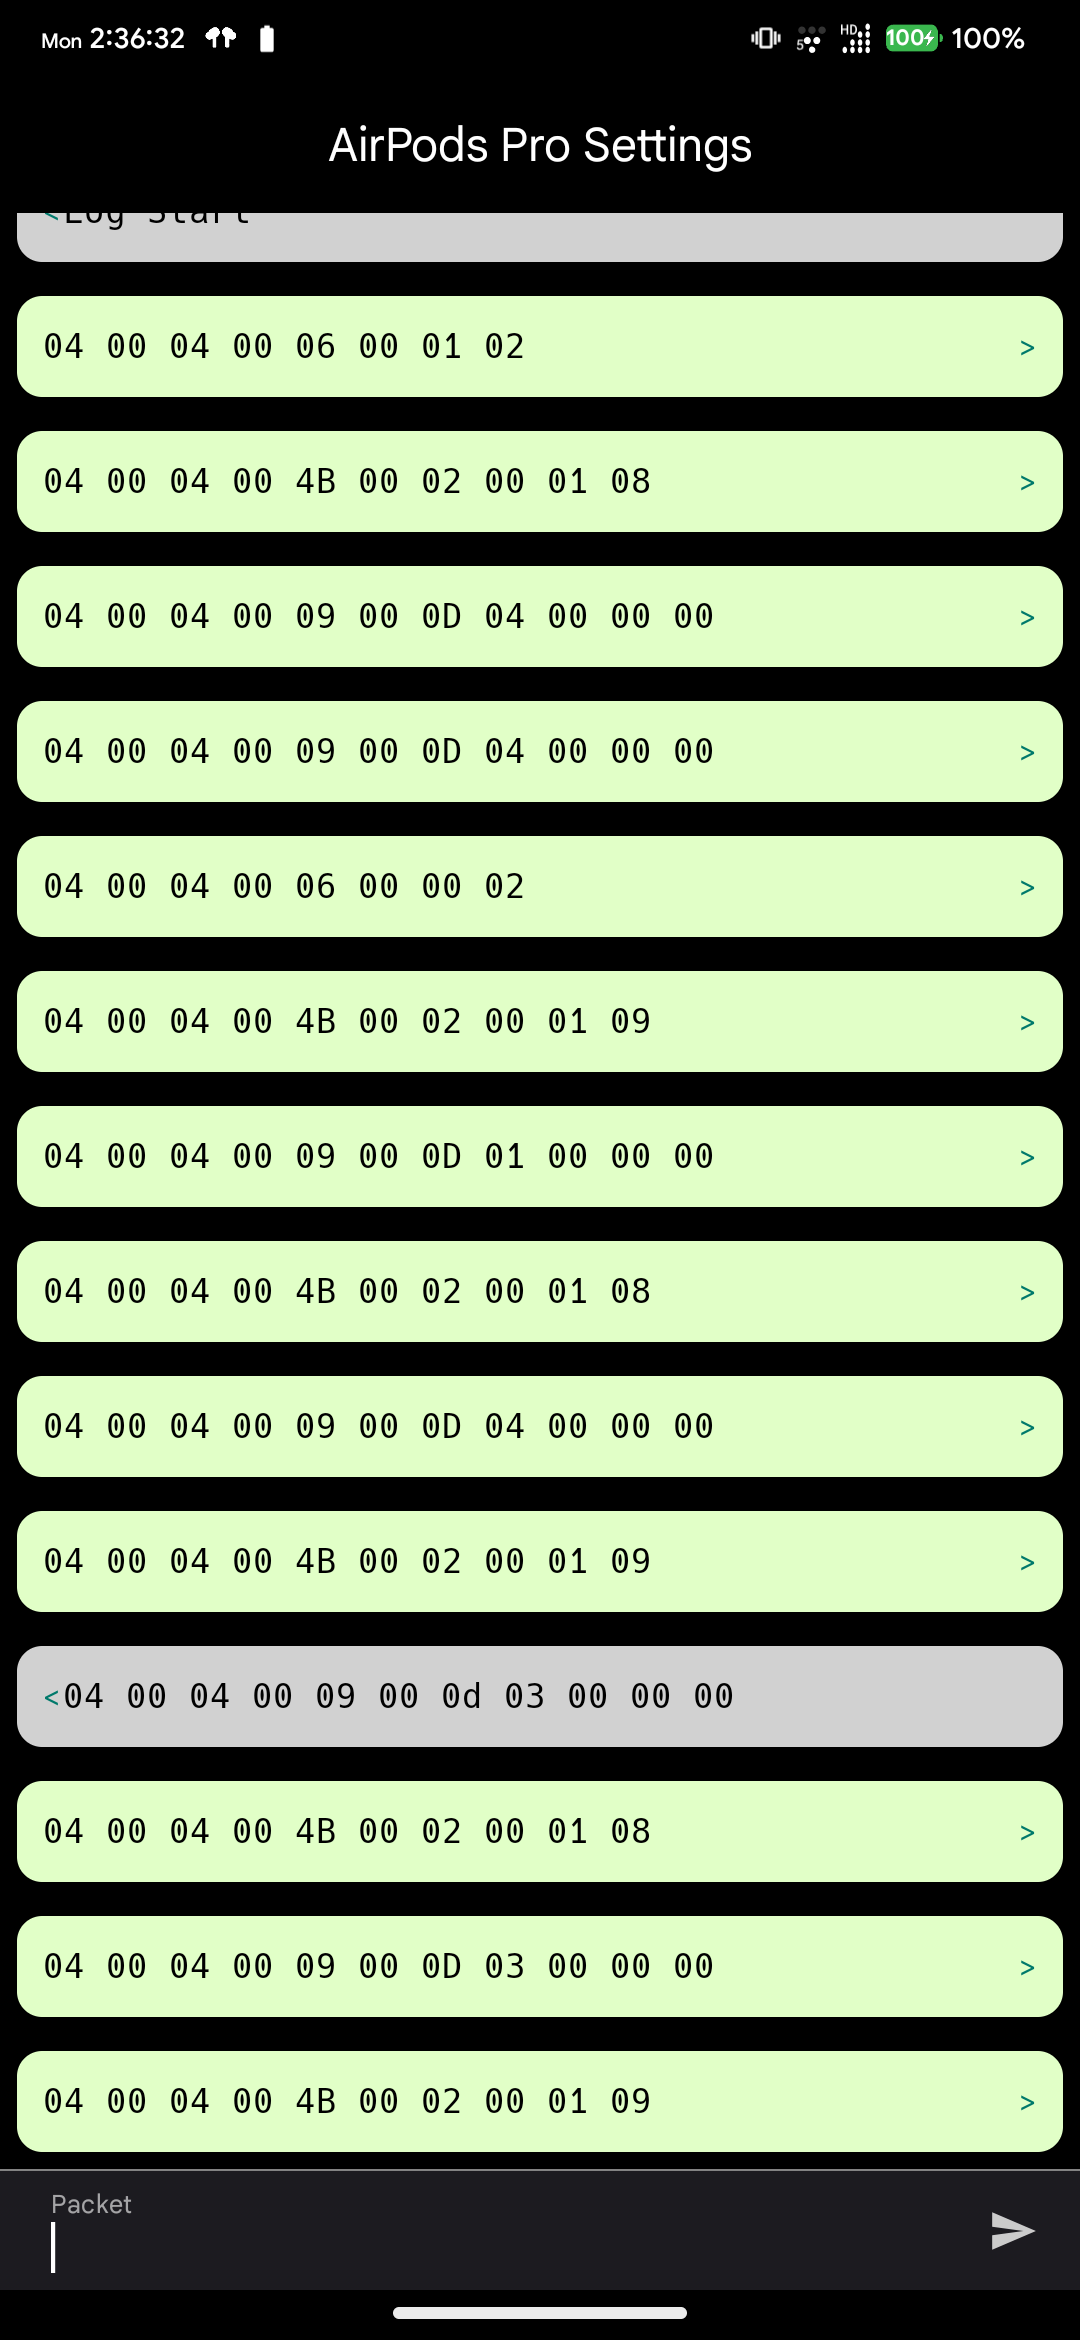
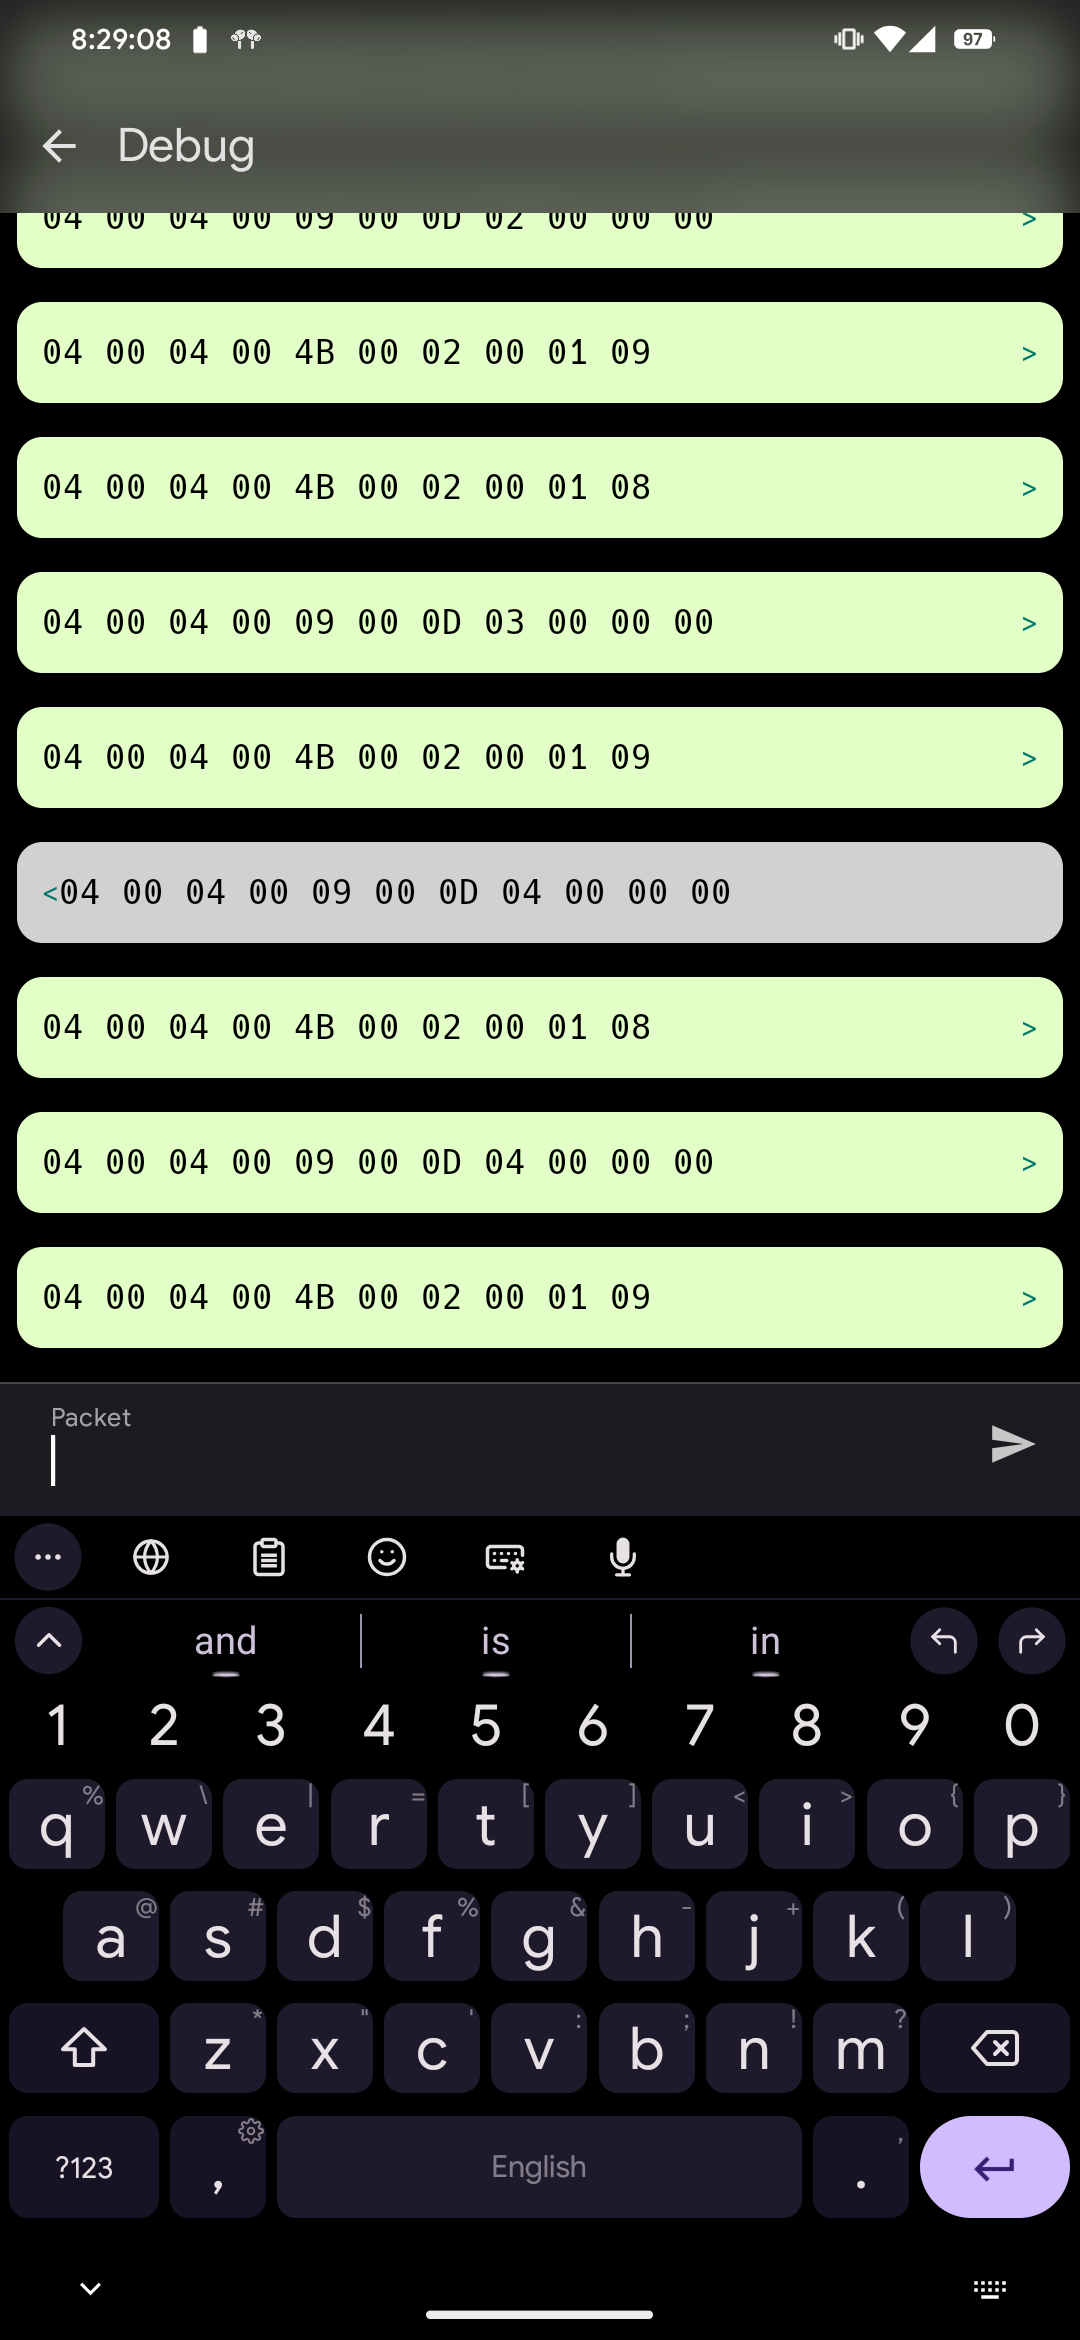
add more screenshots for the app

diff --git a/README.md b/README.md
@@ -101,9 +101,10 @@ Quick Tile to toggle Conversational Awareness and to switch Noise Control modes,
 
 ### Screenshots of the app
 
-![AirPods Settings](/android/imgs/settings.png)
-![Debugging View](/android/imgs/debug.png)
-
+| | | |
+|-------------------|-------------------|-------------------|
+| ![Settings 1](/android/imgs/settings-1.png) | ![Settings 2](/android/imgs/settings-2.png) | ![Debug Screen](/android/imgs/debug.png) |
+| ![Battery Notification](/android/imgs/notification.png) | ![Popup](/android/imgs/popup.png) | ![QuickSetting Tile](/android/imgs/qstile.png) |
 # License
 
 AirPods like Normal (ALN) - Bringing Apple-only features to Linux and Android for seamless AirPods functionality!
